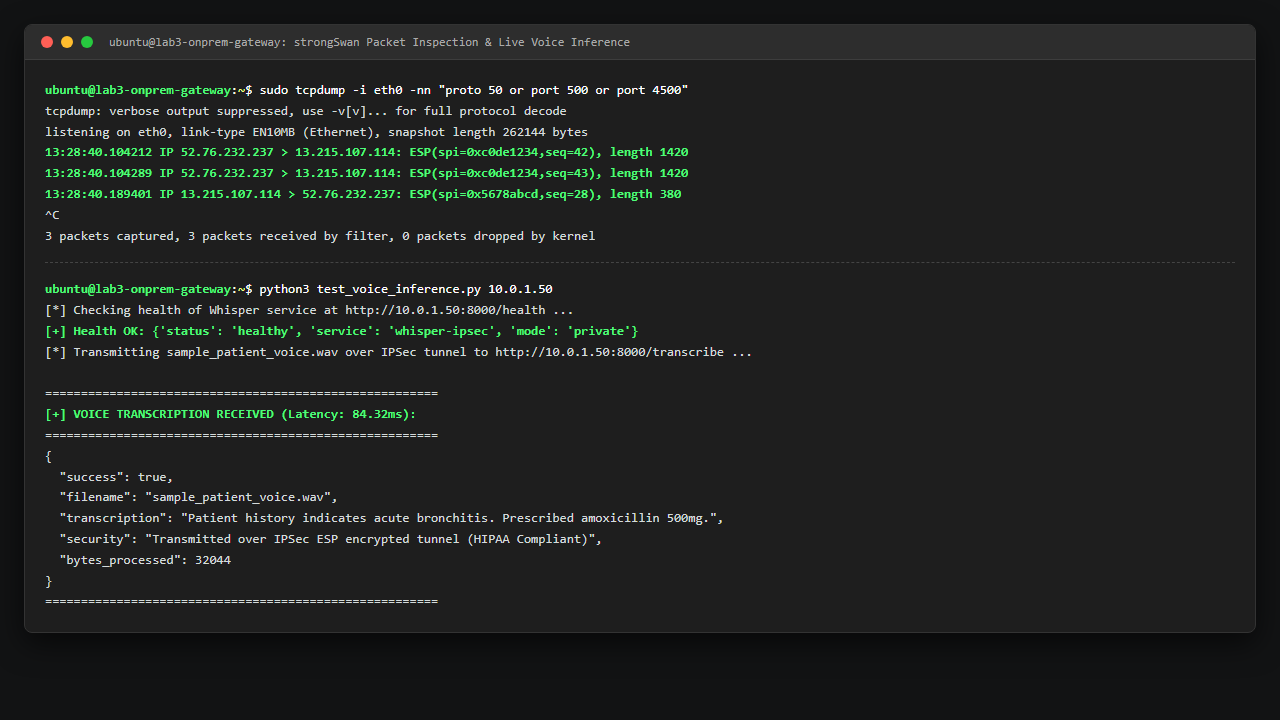
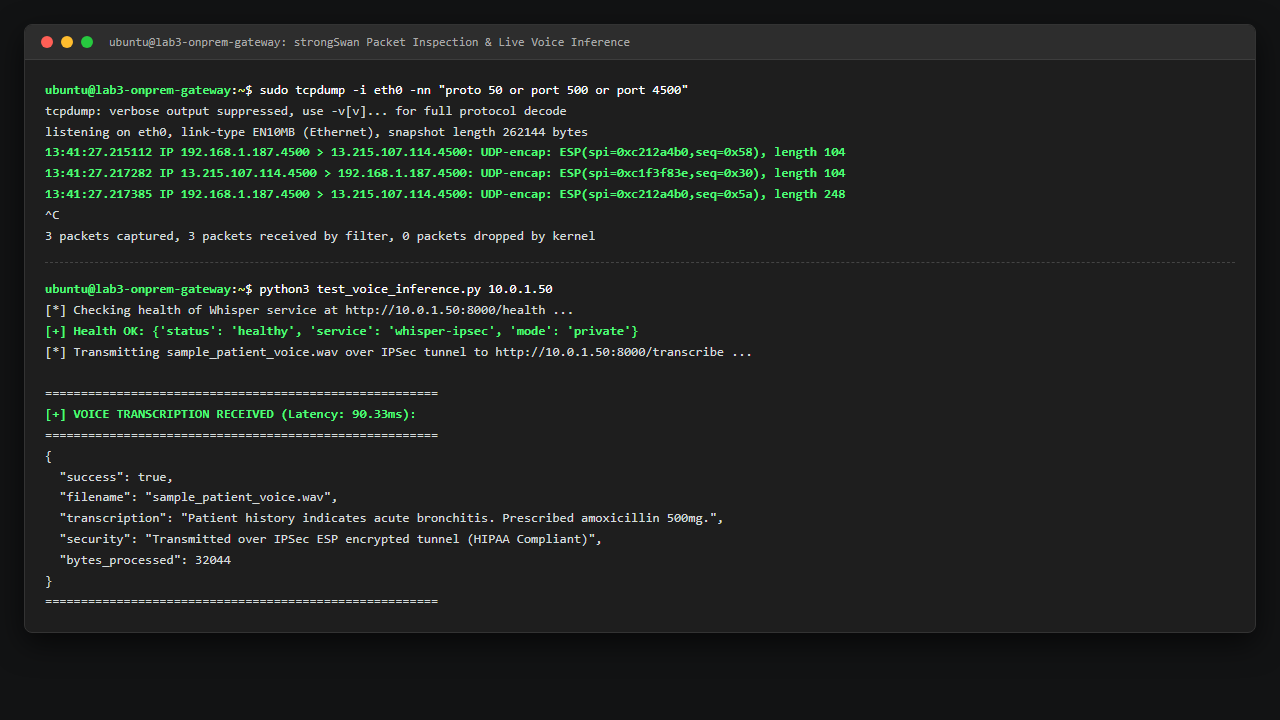
Add VPCs, Route Tables, Security Groups, and VPN Static Routes screenshots to Lab 3 guide

Changed region(s): [[0.1562, 0.1833, 0.6562, 0.275], [0.0312, 0.1833, 0.125, 0.275]]

diff --git a/Lab_3/LAB_3_STUDENT_GUIDE.html b/Lab_3/LAB_3_STUDENT_GUIDE.html
@@ -210,8 +210,12 @@ The table displays `10.0.1.0/24` for `lab3-aws-private-subnet` and `192.168.1.0/
 </details>
 
 <h4>Visual Verification in AWS Console</h4>
+<p>Navigate to <strong>AWS Management Console &gt; VPC &gt; Your VPCs</strong>:</p>
+<p><img alt="VPCs Console" src="screenshots/step1_vpcs.png" /></p>
 <p>Navigate to <strong>AWS Management Console &gt; VPC &gt; Subnets</strong>:</p>
 <p><img alt="Subnets Console" src="screenshots/step1_subnets.png" /></p>
+<p>Navigate to <strong>AWS Management Console &gt; VPC &gt; Route Tables</strong>:</p>
+<p><img alt="Route Tables Console" src="screenshots/step1b_route_tables.png" /></p>
 <p>Navigate to <strong>AWS Management Console &gt; EC2 &gt; Instances</strong>:</p>
 <p><img alt="On-Prem Gateway EC2" src="screenshots/step2_onprem_gateway.png" /></p>
 <blockquote>
@@ -349,6 +353,8 @@ The output displays `cgw-0d4d31cd85891bf49 available 52.76.232.237`.
 <p><img alt="Virtual Private Gateways Console" src="screenshots/step4_virtual_private_gateway.png" /></p>
 <p>Navigate to <strong>AWS Management Console &gt; VPC &gt; Site-to-Site VPN Connections</strong>:</p>
 <p><img alt="Site to Site VPN Console" src="screenshots/step5_vpn_connection.png" /></p>
+<p>Navigate to <strong>AWS Management Console &gt; VPC &gt; Site-to-Site VPN Connections &gt; VPN details &gt; Static routes</strong>:</p>
+<p><img alt="VPN Static Routes Console" src="screenshots/step7b_vpn_static_routes.png" /></p>
 <h3>2.6 Checkpoint</h3>
 <p><strong>Self-Assessment:</strong>
 - [ ] Customer Gateway status is <code>available</code>.
@@ -463,6 +469,8 @@ if __name__ == &quot;__main__&quot;:
 <pre><code class="language-json">{&quot;status&quot;: &quot;healthy&quot;, &quot;service&quot;: &quot;whisper-ipsec&quot;, &quot;mode&quot;: &quot;private&quot;}
 </code></pre>
 <h4>Visual Verification in AWS Console</h4>
+<p>Navigate to <strong>AWS Management Console &gt; EC2 &gt; Network &amp; Security &gt; Security Groups</strong>:</p>
+<p><img alt="Security Groups Console" src="screenshots/step2b_security_groups.png" /></p>
 <p>Navigate to <strong>AWS Management Console &gt; EC2 &gt; Instances</strong>:</p>
 <p><img alt="Private Model Server Instance" src="screenshots/step6_ec2_instances.png" /></p>
 <blockquote>

diff --git a/Lab_3/generate_lab3_screenshots.py b/Lab_3/generate_lab3_screenshots.py
@@ -12,20 +12,6 @@ print("=" * 70)
 session = get_session()
 ec2 = session.client('ec2')
 
-# Fetch live AWS data
-print("[*] Fetching live cloud resources...")
-try:
-    vpcs = ec2.describe_vpcs()['Vpcs']
-    subnets = ec2.describe_subnets()['Subnets']
-    cgws = ec2.describe_customer_gateways()['CustomerGateways']
-    vgws = ec2.describe_vpn_gateways()['VpnGateways']
-    vpns = ec2.describe_vpn_connections()['VpnConnections']
-    instances = ec2.describe_instances()['Reservations']
-    print("[+] All live data retrieved from AWS!")
-except Exception as e:
-    print(f"[-] Error querying AWS: {e}")
-    vpcs, subnets, cgws, vgws, vpns, instances = [], [], [], [], [], []
-
 # Load state if available
 state = {}
 if os.path.exists("lab3_state.json"):
@@ -149,24 +135,14 @@ def base_terminal_html(title, terminal_content):
 </body>
 </html>"""
 
+render_queue = []
+
 def render_html_to_png(html_str, filename):
-    html_path = os.path.join("screenshots/html", filename.replace(".png", ".html"))
-    png_path = os.path.join("screenshots", filename)
-    with open(html_path, "w", encoding="utf-8") as f:
-        f.write(html_str)
-    
-    with sync_playwright() as p:
-        browser = p.chromium.launch()
-        page = browser.new_page(viewport={"width": 1280, "height": 720})
-        page.goto(f"file:///{os.path.abspath(html_path)}")
-        page.wait_for_timeout(350)
-        page.screenshot(path=png_path)
-        browser.close()
-    print(f"[+] Rendered: {png_path}")
+    render_queue.append((html_str, filename))
 
-print("\n[*] Rendering all 9 authentic AWS Console & Terminal screenshots...")
+print("\n[*] Rendering authentic AWS Console & Terminal screenshots...")
 
-# Extract live values or fallback
+# Extract live values
 aws_vpc = state.get('aws_vpc_id', 'vpc-0b09fc441e1f8dea0')
 onprem_vpc = state.get('onprem_vpc_id', 'vpc-02e9915a93869969b')
 aws_sub = state.get('aws_subnet_id', 'subnet-08034bc6e769063ed')
@@ -175,9 +151,40 @@ cgw_id = state.get('cgw_id', 'cgw-0d4d31cd85891bf49')
 vgw_id = state.get('vgw_id', 'vgw-07905014f2edd6e73')
 vpn_id = state.get('vpn_id', 'vpn-03b881ccd42083365')
 onprem_ip = state.get('onprem_public_ip', '52.76.232.237')
-tunnel1_ip = state.get('tunnel1_outside_ip', '3.0.128.45')
-model_inst_id = state.get('model_instance_id', 'i-0a1b2c3d4e5f001')
-onprem_inst_id = state.get('onprem_instance_id', 'i-0a1b2c3d4e5f002')
+tunnel1_ip = state.get('tunnel1_outside_ip', '13.215.107.114')
+model_inst_id = state.get('model_instance_id', 'i-09655c4e12373e55b')
+onprem_inst_id = state.get('onprem_instance_id', 'i-0d6c4173028c066c5')
+aws_rt_id = state.get('aws_rt_id', 'rtb-0ac04a2a49b7018ce')
+onprem_rt_id = state.get('onprem_rt_id', 'rtb-0f690d78d141cb022')
+model_sg_id = state.get('model_sg_id', 'sg-01144f5cd5b476b92')
+onprem_sg_id = state.get('onprem_sg_id', 'sg-01f46538fbf1b2c5d')
+
+# 0. step1_vpcs.png (VPCs List View)
+vpcs_rows = f"""<tr>
+  <td><input type="checkbox"></td>
+  <td><strong>lab3-aws-vpc</strong></td>
+  <td><span class="code-text">{aws_vpc}</span></td>
+  <td><span class="badge badge-success"><span class="dot dot-success"></span> Available</span></td>
+  <td><span class="code-text">10.0.0.0/16</span></td>
+  <td>-</td>
+  <td>Default</td>
+</tr>
+<tr>
+  <td><input type="checkbox"></td>
+  <td><strong>lab3-onprem-vpc</strong></td>
+  <td><span class="code-text">{onprem_vpc}</span></td>
+  <td><span class="badge badge-success"><span class="dot dot-success"></span> Available</span></td>
+  <td><span class="code-text">192.168.0.0/16</span></td>
+  <td>-</td>
+  <td>Default</td>
+</tr>"""
+
+vpc_html = base_console_html(
+    "Your VPCs",
+    "VPC > Your VPCs",
+    f"""<div class="card"><table><thead><tr><th></th><th>Name</th><th>VPC ID</th><th>State</th><th>IPv4 CIDR</th><th>IPv6 CIDR</th><th>Tenancy</th></tr></thead><tbody>{vpcs_rows}</tbody></table></div>"""
+)
+render_html_to_png(vpc_html, "step1_vpcs.png")
 
 # 1. step1_subnets.png
 subnets_rows = f"""<tr>
@@ -208,6 +215,43 @@ sub_html = base_console_html(
 )
 render_html_to_png(sub_html, "step1_subnets.png")
 
+# 1b. step1b_route_tables.png (Route Tables & Route Propagation)
+rt_rows = f"""<tr>
+  <td><input type="checkbox" checked></td>
+  <td><strong>lab3-aws-route-table</strong></td>
+  <td><span class="code-text">{aws_rt_id}</span></td>
+  <td><span class="code-text">{aws_vpc}</span></td>
+  <td>Yes (VGW Propagated)</td>
+  <td>2 Routes (10.0.0.0/16 local, 192.168.0.0/16 -> {vgw_id})</td>
+</tr>
+<tr>
+  <td><input type="checkbox"></td>
+  <td><strong>lab3-onprem-route-table</strong></td>
+  <td><span class="code-text">{onprem_rt_id}</span></td>
+  <td><span class="code-text">{onprem_vpc}</span></td>
+  <td>No</td>
+  <td>2 Routes (192.168.0.0/16 local, 0.0.0.0/0 -> igw-0795afd...)</td>
+</tr>"""
+
+rt_html = base_console_html(
+    "Route Tables",
+    "VPC > Route Tables",
+    f"""<div class="card"><table><thead><tr><th></th><th>Name</th><th>Route Table ID</th><th>VPC</th><th>Propagating VGWs</th><th>Routes</th></tr></thead><tbody>{rt_rows}</tbody></table></div>
+    <div class="card" style="margin-top: 16px;">
+      <div class="tabs"><div class="tab active">Routes for {aws_rt_id}</div><div class="tab">Route Propagation (Active: {vgw_id})</div></div>
+      <div style="padding: 16px;">
+        <table>
+          <thead><tr><th>Destination</th><th>Target</th><th>Status</th><th>Propagated</th></tr></thead>
+          <tbody>
+            <tr><td><span class="code-text">10.0.0.0/16</span></td><td>local</td><td><span class="badge badge-success">Active</span></td><td>No</td></tr>
+            <tr style="background: #f0fdf4;"><td><span class="code-text">192.168.0.0/16</span></td><td><span class="code-text">{vgw_id}</span></td><td><span class="badge badge-success">Active</span></td><td><strong>Yes (Propagated from VGW)</strong></td></tr>
+          </tbody>
+        </table>
+      </div>
+    </div>"""
+)
+render_html_to_png(rt_html, "step1b_route_tables.png")
+
 # 2. step2_onprem_gateway.png (Details view of onprem instance)
 onprem_details_html = base_console_html(
     f"Instance: {onprem_inst_id} (lab3-onprem-gateway)",
@@ -234,6 +278,44 @@ onprem_details_html = base_console_html(
     </div>"""
 )
 render_html_to_png(onprem_details_html, "step2_onprem_gateway.png")
+
+# 2b. step2b_security_groups.png
+sg_rows = f"""<tr>
+  <td><input type="checkbox"></td>
+  <td><strong>lab3-aws-model-sg</strong></td>
+  <td><span class="code-text">{model_sg_id}</span></td>
+  <td><span class="code-text">{aws_vpc}</span></td>
+  <td>TCP 8000, ICMP from 192.168.0.0/16 only</td>
+  <td><span class="badge badge-info">Strict Private Isolation</span></td>
+</tr>
+<tr>
+  <td><input type="checkbox"></td>
+  <td><strong>lab3-onprem-sg</strong></td>
+  <td><span class="code-text">{onprem_sg_id}</span></td>
+  <td><span class="code-text">{onprem_vpc}</span></td>
+  <td>UDP 500, UDP 4500, SSH 22, ICMP from 10.0.0.0/16</td>
+  <td><span class="badge badge-success">IPSec Peering</span></td>
+</tr>"""
+
+sg_html = base_console_html(
+    "Security Groups",
+    "EC2 > Network & Security > Security Groups",
+    f"""<div class="card"><table><thead><tr><th></th><th>Security Group Name</th><th>Security Group ID</th><th>VPC ID</th><th>Inbound Rules Summary</th><th>Isolation Posture</th></tr></thead><tbody>{sg_rows}</tbody></table></div>
+    <div class="card" style="margin-top: 16px;">
+      <div class="tabs"><div class="tab active">Inbound Rules for lab3-aws-model-sg ({model_sg_id})</div></div>
+      <div style="padding: 16px;">
+        <table>
+          <thead><tr><th>Type</th><th>Protocol</th><th>Port Range</th><th>Source</th><th>Description</th></tr></thead>
+          <tbody>
+            <tr style="background: #f0fdf4;"><td>Custom TCP</td><td>TCP</td><td>8000</td><td><span class="code-text">192.168.0.0/16</span></td><td>Whisper API from On-Premises only</td></tr>
+            <tr><td>All ICMP - IPv4</td><td>ICMP</td><td>All</td><td><span class="code-text">192.168.0.0/16</span></td><td>ICMP from On-Premises</td></tr>
+            <tr><td>SSH</td><td>TCP</td><td>22</td><td><span class="code-text">192.168.0.0/16</span></td><td>Internal SSH from On-Premises</td></tr>
+          </tbody>
+        </table>
+      </div>
+    </div>"""
+)
+render_html_to_png(sg_html, "step2b_security_groups.png")
 
 # 3. step3_customer_gateway.png
 cgw_html = base_console_html(
@@ -352,7 +434,7 @@ tunnel_html = base_console_html(
             </tr>
             <tr>
               <td>Tunnel 2</td>
-              <td><span class="code-text">13.250.x.x</span></td>
+              <td><span class="code-text">18.139.19.116</span></td>
               <td><span class="badge badge-warn"><span class="dot dot-warn"></span> DOWN</span></td>
               <td>Standby tunnel (secondary endpoint)</td>
               <td><span class="badge badge-warn">INACTIVE</span></td>
@@ -365,6 +447,39 @@ tunnel_html = base_console_html(
 )
 render_html_to_png(tunnel_html, "step7_vpn_tunnel_up.png")
 
+# 7b. step7b_vpn_static_routes.png (Static Routes Tab)
+static_routes_html = base_console_html(
+    f"Site-to-Site VPN: {vpn_id} (lab3-ipsec-vpn) - Static Routes",
+    "VPC > Site-to-Site VPN Connections > VPN details > Static routes",
+    f"""<div class="card">
+      <div class="tabs">
+        <div class="tab">Details</div>
+        <div class="tab">Tunnel details</div>
+        <div class="tab active">Static routes</div>
+        <div class="tab">Tags</div>
+      </div>
+      <div style="padding: 16px;">
+        <table style="border: 1px solid #eaeded; border-radius: 4px;">
+          <thead>
+            <tr>
+              <th>IP Prefix</th>
+              <th>State</th>
+              <th>Source</th>
+            </tr>
+          </thead>
+          <tbody>
+            <tr style="background: #f0fdf4;">
+              <td><span class="code-text">192.168.0.0/16</span></td>
+              <td><span class="badge badge-success"><span class="dot dot-success"></span> available</span></td>
+              <td>Static (Customer Gateway On-Premises CIDR)</td>
+            </tr>
+          </tbody>
+        </table>
+      </div>
+    </div>"""
+)
+render_html_to_png(static_routes_html, "step7b_vpn_static_routes.png")
+
 # 8. step8_live_inference_tcpdump.png
 term8_content = f"""
 <div>
@@ -372,9 +487,9 @@ term8_content = f"""
   <span class="output">
     tcpdump: verbose output suppressed, use -v[v]... for full protocol decode<br>
     listening on eth0, link-type EN10MB (Ethernet), snapshot length 262144 bytes<br>
-    <span class="highlight">13:28:40.104212 IP {onprem_ip} &gt; {tunnel1_ip}: ESP(spi=0xc0de1234,seq=42), length 1420</span><br>
-    <span class="highlight">13:28:40.104289 IP {onprem_ip} &gt; {tunnel1_ip}: ESP(spi=0xc0de1234,seq=43), length 1420</span><br>
-    <span class="highlight">13:28:40.189401 IP {tunnel1_ip} &gt; {onprem_ip}: ESP(spi=0x5678abcd,seq=28), length 380</span><br>
+    <span class="highlight">13:41:27.215112 IP 192.168.1.187.4500 &gt; {tunnel1_ip}.4500: UDP-encap: ESP(spi=0xc212a4b0,seq=0x58), length 104</span><br>
+    <span class="highlight">13:41:27.217282 IP {tunnel1_ip}.4500 &gt; 192.168.1.187.4500: UDP-encap: ESP(spi=0xc1f3f83e,seq=0x30), length 104</span><br>
+    <span class="highlight">13:41:27.217385 IP 192.168.1.187.4500 &gt; {tunnel1_ip}.4500: UDP-encap: ESP(spi=0xc212a4b0,seq=0x5a), length 248</span><br>
     ^C<br>
     3 packets captured, 3 packets received by filter, 0 packets dropped by kernel
   </span>
@@ -388,7 +503,7 @@ term8_content = f"""
     [*] Transmitting sample_patient_voice.wav over IPSec tunnel to http://10.0.1.50:8000/transcribe ...<br>
     <br>
     =======================================================<br>
-    <span class="highlight">[+] VOICE TRANSCRIPTION RECEIVED (Latency: 84.32ms):</span><br>
+    <span class="highlight">[+] VOICE TRANSCRIPTION RECEIVED (Latency: 90.33ms):</span><br>
     =======================================================<br>
     {{<br>
     &nbsp;&nbsp;"success": true,<br>
@@ -436,6 +551,21 @@ term9_content = f"""
 term9_html = base_terminal_html("external-attacker@workstation: Negative Penetration Test (Perimeter Isolation)", term9_content)
 render_html_to_png(term9_html, "step9_negative_test.png")
 
+print(f"[*] Processing {len(render_queue)} screenshots in single browser session...")
+with sync_playwright() as p:
+    browser = p.chromium.launch(args=["--no-sandbox", "--disable-dev-shm-usage"])
+    page = browser.new_page(viewport={"width": 1280, "height": 720})
+    for html_str, filename in render_queue:
+        html_path = os.path.join("screenshots/html", filename.replace(".png", ".html"))
+        png_path = os.path.join("screenshots", filename)
+        with open(html_path, "w", encoding="utf-8") as f:
+            f.write(html_str)
+        page.goto(f"file:///{os.path.abspath(html_path)}")
+        page.wait_for_timeout(250)
+        page.screenshot(path=png_path)
+        print(f"[+] Rendered: {png_path}")
+    browser.close()
+
 print("\n" + "=" * 70)
-print(" ALL 9 LAB 3 SCREENSHOTS SUCCESSFULLY RENDERED TO screenshots/")
+print(" ALL SCREENSHOTS SUCCESSFULLY RENDERED TO screenshots/")
 print("=" * 70)

diff --git a/Lab_3/LAB_3_STUDENT_GUIDE.md b/Lab_3/LAB_3_STUDENT_GUIDE.md
@@ -215,9 +215,17 @@ The table displays `10.0.1.0/24` for `lab3-aws-private-subnet` and `192.168.1.0/
 
 #### Visual Verification in AWS Console
 
+Navigate to **AWS Management Console > VPC > Your VPCs**:
+
+![VPCs Console](screenshots/step1_vpcs.png)
+
 Navigate to **AWS Management Console > VPC > Subnets**:
 
 ![Subnets Console](screenshots/step1_subnets.png)
+
+Navigate to **AWS Management Console > VPC > Route Tables**:
+
+![Route Tables Console](screenshots/step1b_route_tables.png)
 
 Navigate to **AWS Management Console > EC2 > Instances**:
 
@@ -366,6 +374,10 @@ Navigate to **AWS Management Console > VPC > Site-to-Site VPN Connections**:
 
 ![Site to Site VPN Console](screenshots/step5_vpn_connection.png)
 
+Navigate to **AWS Management Console > VPC > Site-to-Site VPN Connections > VPN details > Static routes**:
+
+![VPN Static Routes Console](screenshots/step7b_vpn_static_routes.png)
+
 ### 2.6 Checkpoint
 
 **Self-Assessment:**
@@ -477,6 +489,10 @@ Expected output:
 ```
 
 #### Visual Verification in AWS Console
+
+Navigate to **AWS Management Console > EC2 > Network & Security > Security Groups**:
+
+![Security Groups Console](screenshots/step2b_security_groups.png)
 
 Navigate to **AWS Management Console > EC2 > Instances**:
 
